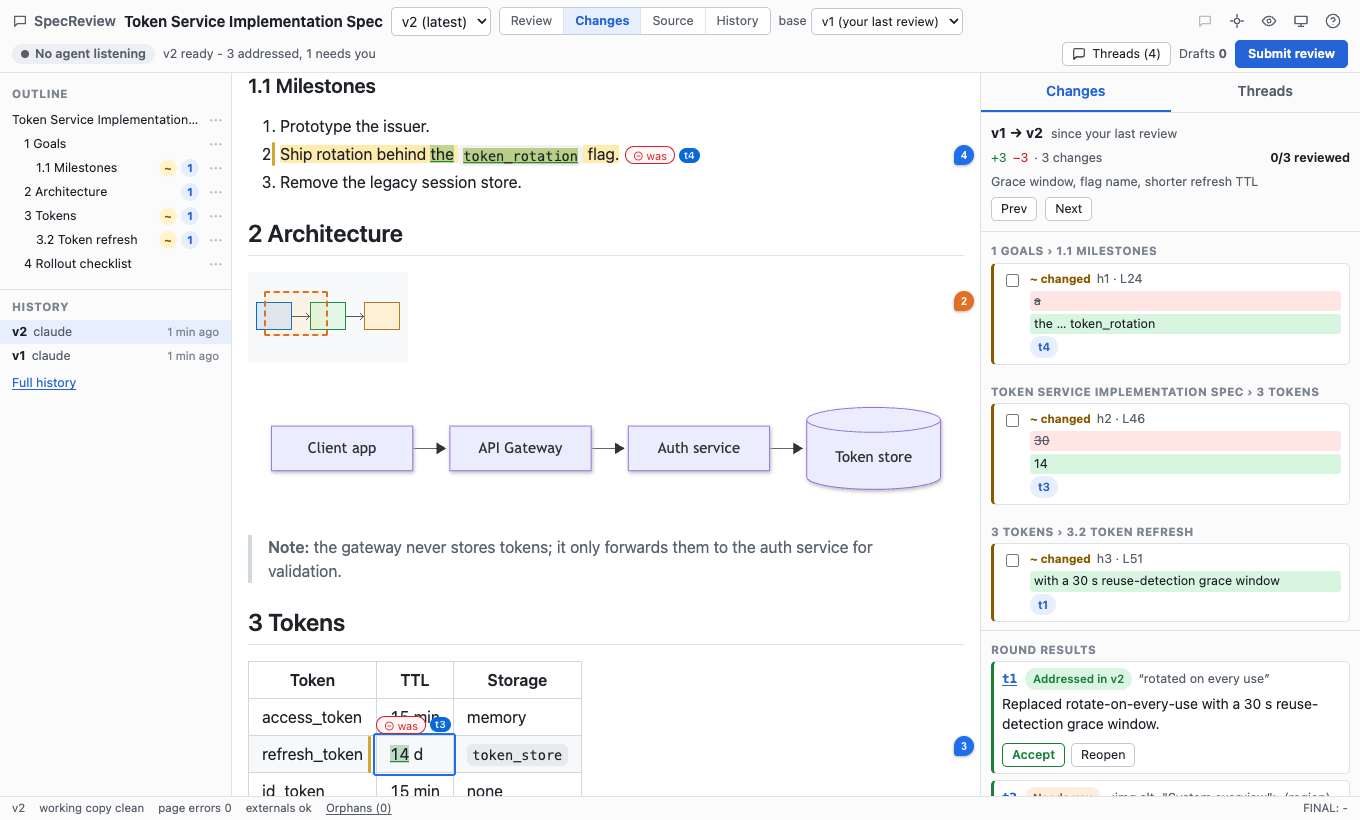
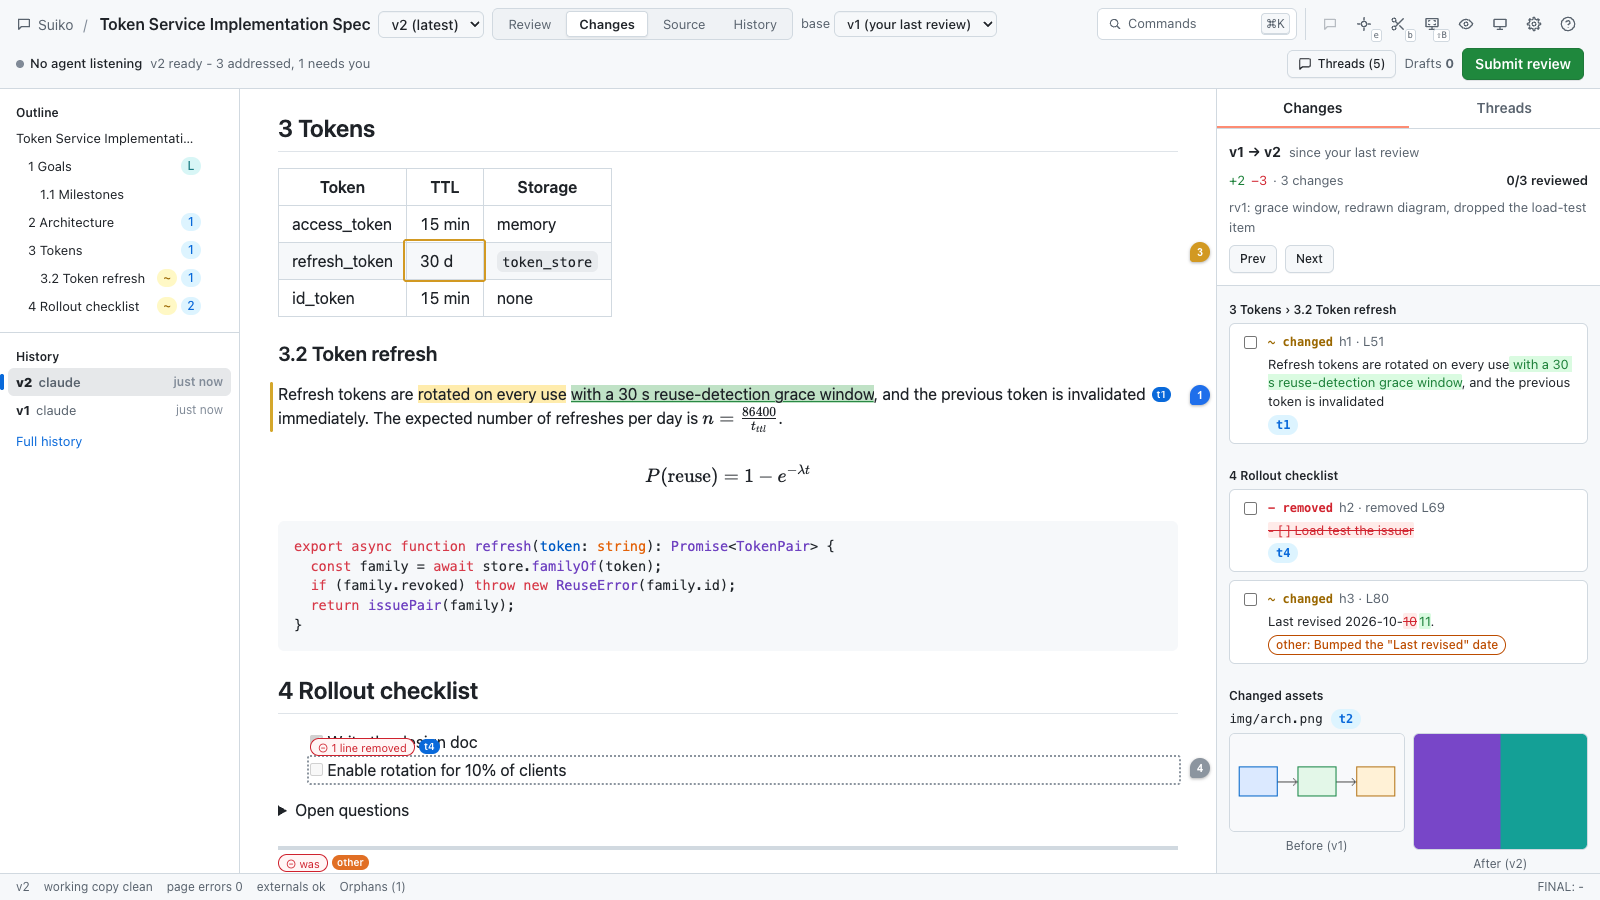
Update the README screenshots for Suiko; 0.1.2
The screenshots still showed the old SpecReview name. They are re-rendered
from the e2e mock's round-2 state (kitchen-sink.md) with the current UI, at
1600x900 so the Changes-mode toolbar fits on one line. The README's image
descriptions now match what they show.

diff --git a/README.md b/README.md
@@ -10,9 +10,9 @@ Everything is one key away: select text and press `c` to comment, press `b` to s
 
 ![Review mode: the rendered spec with highlighted threads, pins and the thread panel](docs/img/review-mode.png)
 
-![Changes mode after a revision: change bars, inserted words, "⊖ was" tabs, thread badges and the change list](docs/img/changes-mode.png)
+![Changes mode after a revision: change bars, inserted words, a removed-line tab, thread badges, the change list and a redrawn image](docs/img/changes-mode.png)
 
-![The Verify queue: an "Addressed in v2" suggestion card with its mini-diff](docs/img/verify.png)
+![The Verify queue: a blocking thread "Addressed in v2", with the mini-diff of the change that addressed it](docs/img/verify.png)
 
 - [Why](#why)
 - [How it works](#how-it-works)
